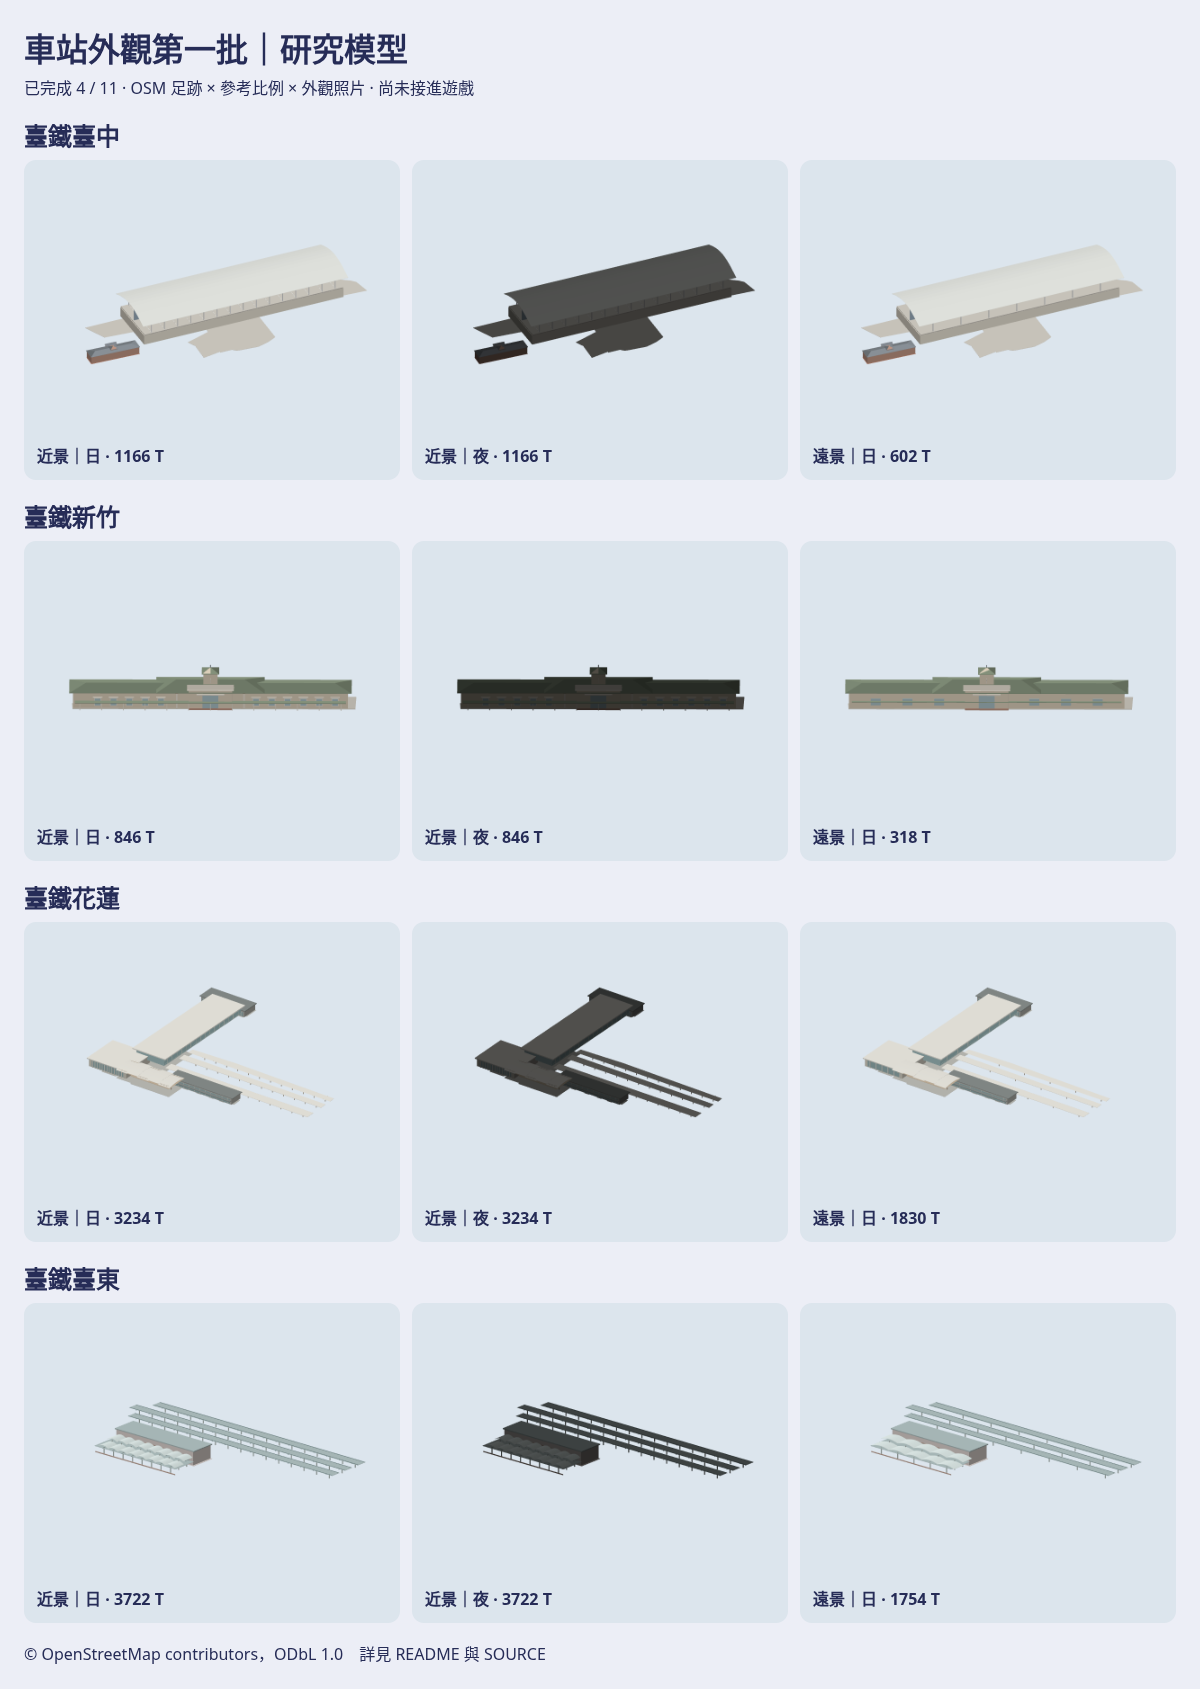
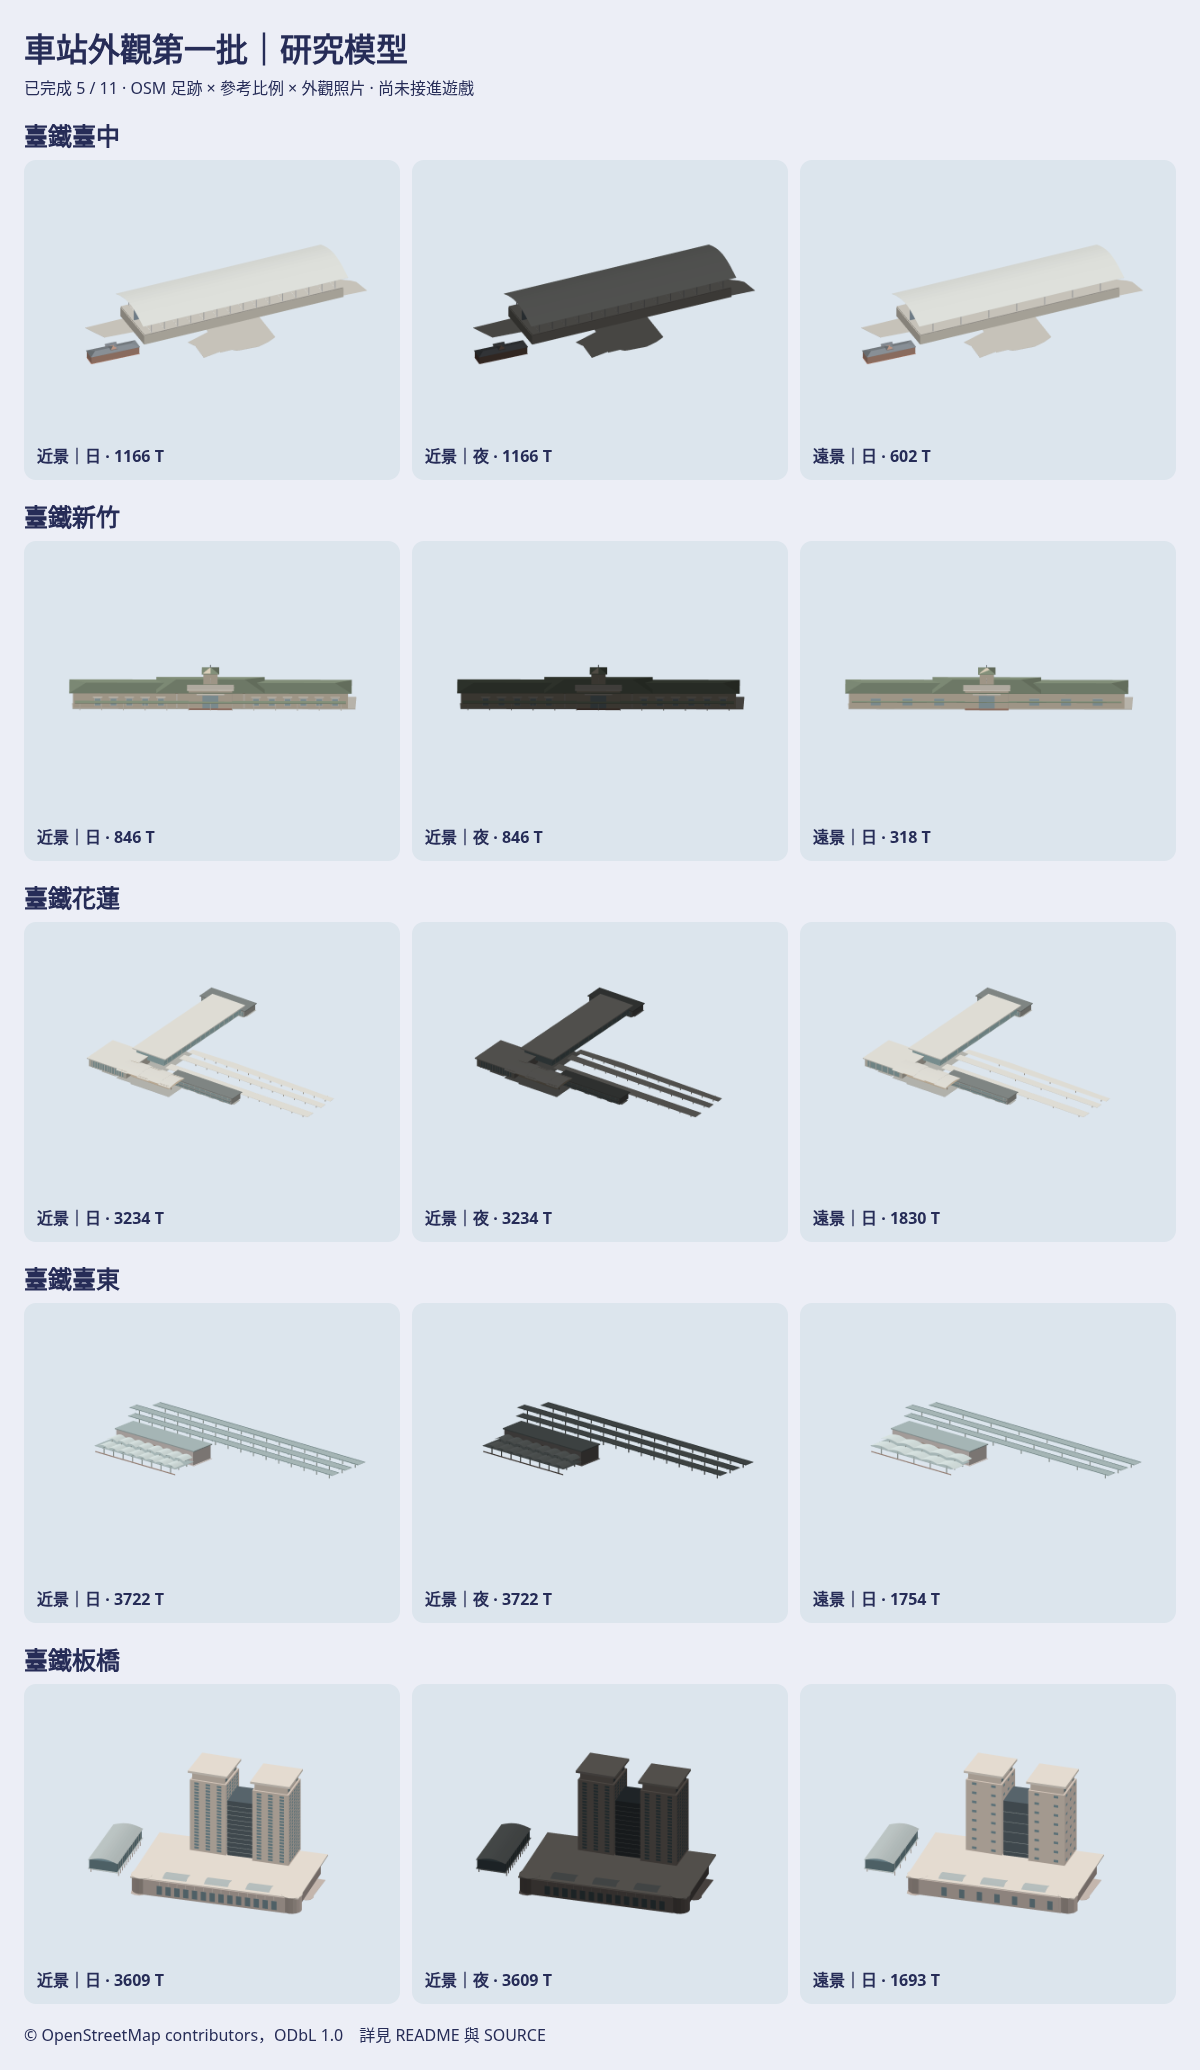
Add Banqiao station exterior study
Model the tagged 116.8 m station height, twin tower footprints, low podium, and circular-line station as isolated near and far recipes with tests and a five-station overview.

Agent: Codex

diff --git a/Sources/GamePresentation/Map3DStationExteriorBatch1.swift b/Sources/GamePresentation/Map3DStationExteriorBatch1.swift
@@ -3,7 +3,7 @@ import Foundation
 /// Isolated exterior study. No station catalog or live-map lookup calls this type.
 public enum Map3DStationExteriorBatch1 {
     public enum LevelOfDetail: Sendable { case near, far }
-    public enum Station: String, CaseIterable, Sendable { case taichungTRA = "tra-taichung", hsinchuTRA = "tra-hsinchu", hualienTRA = "tra-hualien", taitungTRA = "tra-taitung" }
+    public enum Station: String, CaseIterable, Sendable { case taichungTRA = "tra-taichung", hsinchuTRA = "tra-hsinchu", hualienTRA = "tra-hualien", taitungTRA = "tra-taitung", banqiaoTRA = "tra-banqiao" }
 
     public static func model(for station: Station, detail: LevelOfDetail) -> Map3DModelPack.Model {
         var builder = StationKitBuilder()
@@ -12,6 +12,7 @@ public enum Map3DStationExteriorBatch1 {
         case .hsinchuTRA: builder.hsinchuExteriorStudy(detail: detail)
         case .hualienTRA: builder.hualienExteriorStudy(detail: detail)
         case .taitungTRA: builder.taitungExteriorStudy(detail: detail)
+        case .banqiaoTRA: builder.banqiaoExteriorStudy(detail: detail)
         }
         return .flat(named: "station-exterior-study-\(station.rawValue)-\(detail == .near ? "near" : "far")", from: builder.mesh)
     }
@@ -302,6 +303,75 @@ public enum Map3DStationExteriorBatch1 {
         (53.526, 71.849),
         (46.463, 72.660),
         (44.977, 60.051),
+    ]
+
+    // Banqiao complex: OSM ways from osmtoday Taiwan PBF, downloaded 2026-11-06.
+    // Metres east/north from (121.4640451, 25.0144511); © OpenStreetMap contributors, ODbL 1.0.
+    static let banqiaoMainFootprint: [(Float, Float)] = [ // OSM way 232201616
+        (-101.440, -47.035),
+        (-76.974, -16.724),
+        (-56.892, 8.740),
+        (-33.716, 38.940),
+        (-11.659, 67.673),
+        (-0.947, 82.418),
+        (30.189, 58.322),
+        (41.697, 50.049),
+        (62.787, 34.893),
+        (71.442, 22.673),
+        (74.737, 18.014),
+        (76.178, 15.979),
+        (78.889, 12.142),
+        (85.892, 11.787),
+        (90.799, 6.182),
+        (89.469, 1.357),
+        (86.497, -3.191),
+        (80.894, -4.770),
+        (75.110, -3.547),
+        (60.580, -17.547),
+        (27.146, -28.054),
+        (-0.695, -46.969),
+        (-3.688, -50.004),
+        (-24.677, -71.298),
+        (-28.436, -78.315),
+        (-42.714, -104.912),
+        (-50.765, -109.471),
+        (-51.118, -114.019),
+        (-53.395, -118.567),
+        (-58.293, -120.847),
+        (-63.895, -118.567),
+        (-67.220, -114.542),
+        (-78.466, -106.503),
+        (-99.788, -91.258),
+        (-92.734, -81.117),
+        (-84.058, -68.618),
+        (-79.473, -62.025),
+    ]
+    static let banqiaoCircularLineFootprint: [(Float, Float)] = [ // OSM way 818694787
+        (98.558, 67.451),
+        (99.425, 66.806),
+        (82.940, 44.434),
+        (81.841, 42.944),
+        (8.515, 96.973),
+        (26.108, 120.847),
+        (49.355, 103.712),
+        (52.257, 107.648),
+        (78.073, 88.589),
+        (75.191, 84.675),
+        (91.132, 72.933),
+        (94.004, 76.836),
+        (101.440, 71.343),
+    ]
+    static let banqiaoTowerSouthFootprint: [(Float, Float)] = [ // OSM way 1491394339
+        (-74.334, -12.854),
+        (-38.805, -39.007),
+        (-63.724, -72.866),
+        (-99.254, -46.713),
+    ]
+    static let banqiaoTowerNorthFootprint: [(Float, Float)] = [ // OSM way 1491394340
+        (-35.661, 47.369),
+        (0.595, 22.228),
+        (-23.367, -12.309),
+        (-59.613, 12.821),
     ]
 
 }
@@ -652,5 +722,117 @@ private extension StationKitBuilder {
             add(.flat(named: "taitung-platform-supports", from: supports.mesh),
                 at: Map3DPoint(east, 0, north), angle: rotation * .pi / 180)
         }
+    }
+
+    mutating func banqiaoExteriorStudy(detail: Map3DStationExteriorBatch1.LevelOfDetail) {
+        let trim = Map3DColor.rgb(0xEEE5DA)
+        let towerWall = Map3DColor.rgb(0xDDCEC2)
+        let podiumWall = Map3DColor.rgb(0xCDBEB5)
+        let paleRoof = Map3DColor.rgb(0xBEC7C6)
+        let windows = Map3DColor.rgb(0x728C94)
+        let glass = Map3DColor.rgb(0x688189)
+        let darkGlass = Map3DColor.rgb(0x5B6970)
+
+        // The parent OSM building has height=116.8 m and 25 above-ground
+        // levels. Its two commercial building:part ways have no own heights.
+        footprint(Map3DStationExteriorBatch1.banqiaoMainFootprint, color: podiumWall)
+        for outline in [Map3DStationExteriorBatch1.banqiaoTowerSouthFootprint,
+                        Map3DStationExteriorBatch1.banqiaoTowerNorthFootprint] {
+            footprint(outline, color: towerWall, baseY: 20, height: 0.32)
+        }
+        // The circular-line station is tagged layer=1, without height tags.
+        footprint(Map3DStationExteriorBatch1.banqiaoCircularLineFootprint,
+                  color: paleRoof, baseY: 7, height: 0.32)
+
+        // A low, long station podium with two cylindrical end pavilions and
+        // a shallow curved roof rhythm. Podium height and all subdivisions
+        // are photo/reference estimates, separate from OSM's tower height.
+        var podium = StationKitBuilder()
+        podium.box(0, 0.32, 0, 181, 91, 17.6, podiumWall)
+        podium.box(0, 0.32, -48, 161, 20, 18.3, podiumWall)
+        podium.box(0, 18.0, 0, 191, 113, 1.4, trim)
+        for x: Float in [-85, 85] {
+            podium.cylinder(x, 0.32, -47, radius: 11.0, height: 18.5,
+                            color: podiumWall, sides: detail == .near ? 16 : 10)
+            podium.cylinder(x, 18.82, -47, radius: 11.8, height: 0.7,
+                            color: trim, sides: detail == .near ? 16 : 10)
+        }
+        for x in stride(from: Float(-68), through: 68, by: detail == .near ? 10 : 20) {
+            podium.box(x, 2.8, -58.18, 6.0, 0.18, 10.4, windows)
+            if detail == .near { podium.box(x, 13.8, -58.2, 0.55, 0.25, 3.9, trim) }
+        }
+        for x: Float in [-47, 0, 47] {
+            podium.canopy(x, 19.4, -43, length: 27, width: 17,
+                          rise: 1.8, color: paleRoof)
+        }
+        add(.flat(named: "banqiao-podium", from: podium.mesh),
+            at: Map3DPoint(-13.09, 0, -32.37), angle: 52.2644 * .pi / 180)
+
+        // The two towers keep their individual OSM part outlines. The parent
+        // way supplies only their shared 116.8 m top; 20 m start is estimated.
+        let towers: [(Float, Float, Float)] = [(-69.03, -42.86, -36.3563),
+                                               (-29.51, 17.53, -34.7394)]
+        for (east, north, rotation) in towers {
+            var tower = StationKitBuilder()
+            tower.box(0, 20.32, 0, 43.4, 41.4, 85.2, towerWall)
+            tower.box(0, 105.52, 0, 39.4, 37.4, 8.78, towerWall)
+            tower.box(0, 114.3, 0, 47.1, 45.0, 2.5, trim)
+            tower.box(0, 112.7, 0, 40.2, 38.2, 1.6, podiumWall)
+            let floorStep: Int = detail == .near ? 1 : 3
+            let columns: [Float] = detail == .near ? [-15.4, -7.7, 0, 7.7, 15.4]
+                                                   : [-14, 0, 14]
+            for floor in stride(from: 0, through: 21, by: floorStep) {
+                let y = Float(23.0 + Double(floor) * 3.7)
+                let height: Float = detail == .near ? 2.45 : 2.9
+                for x in columns {
+                    for z: Float in [-20.75, 20.75] {
+                        let panel = [Map3DPoint(x - 2.6, y, z),
+                                     Map3DPoint(x + 2.6, y, z),
+                                     Map3DPoint(x + 2.6, y + height, z),
+                                     Map3DPoint(x - 2.6, y + height, z)]
+                        tower.face(panel, inside: Map3DPoint(0, y, 0), color: windows)
+                    }
+                }
+                let sideColumns: [Float] = detail == .near ? [-13, 0, 13] : [-11, 11]
+                for z in sideColumns {
+                    for x: Float in [-21.75, 21.75] {
+                        let panel = [Map3DPoint(x, y, z - 2.6),
+                                     Map3DPoint(x, y, z + 2.6),
+                                     Map3DPoint(x, y + height, z + 2.6),
+                                     Map3DPoint(x, y + height, z - 2.6)]
+                        tower.face(panel, inside: Map3DPoint(0, y, 0), color: windows)
+                    }
+                }
+            }
+            for x: Float in [-14, 14] {
+                tower.box(x, 106.6, -18.9, 5.6, 0.18, 4.9, glass)
+            }
+            add(.flat(named: "banqiao-tower", from: tower.mesh),
+                at: Map3DPoint(east, 0, north), angle: rotation * .pi / 180)
+        }
+
+        // Dark central glazed link between the two station towers.
+        var link = StationKitBuilder()
+        link.box(0, 20.32, 0, 30.0, 37.0, 66.0, darkGlass)
+        for y in stride(from: Float(25), through: 82, by: detail == .near ? 5.5 : 12) {
+            for z: Float in [-18.65, 18.65] {
+                link.box(0, y, z, 30.5, 0.24, 0.34, paleRoof)
+            }
+        }
+        add(.flat(named: "banqiao-glass-link", from: link.mesh),
+            at: Map3DPoint(-49.27, 0, -12.67), angle: 52.2644 * .pi / 180)
+
+        var circular = StationKitBuilder()
+        circular.box(0, 7.32, 0, 87, 32, 11.0, glass)
+        circular.canopy(0, 18.32, 0, length: 91, width: 34,
+                        rise: 3.7, color: paleRoof)
+        for x in stride(from: Float(-39), through: 39, by: detail == .near ? 7 : 19) {
+            for z: Float in [-15.8, 15.8] {
+                circular.box(x, 7.32, z, 0.46, 0.52, 10.7, trim)
+                circular.box(x, 0.32, z, 0.75, 0.75, 7.0, podiumWall)
+            }
+        }
+        add(.flat(named: "banqiao-circular-line", from: circular.mesh),
+            at: Map3DPoint(55.42, 0, 83.86), angle: -36.3842 * .pi / 180)
     }
 }

diff --git a/Tests/GamePresentationTests/Map3DStationExteriorBatch1Tests.swift b/Tests/GamePresentationTests/Map3DStationExteriorBatch1Tests.swift
@@ -2,6 +2,43 @@ import XCTest
 @testable import GamePresentation
 
 final class Map3DStationExteriorBatch1Tests: XCTestCase {
+    func testBanqiaoStudyPreservesFourOSMWaysAndTaggedTowerHeight() {
+        let near = Map3DStationExteriorBatch1.model(for: .banqiaoTRA, detail: .near)
+        let far = Map3DStationExteriorBatch1.model(for: .banqiaoTRA, detail: .far)
+        XCTAssertGreaterThan(near.triangleCount, far.triangleCount)
+        XCTAssertLessThanOrEqual(near.triangleCount, 6_000)
+        XCTAssertLessThanOrEqual(far.triangleCount, 2_500)
+        XCTAssertNil(Map3DStationKit.model(id: near.name))
+        XCTAssertNil(Map3DStationKit.model(id: far.name))
+        XCTAssertEqual(near.maximum.z, 116.8, accuracy: 0.01)
+        let outlines: [([(Float, Float)], Float)] = [
+            (Map3DStationExteriorBatch1.banqiaoMainFootprint, 0.32),
+            (Map3DStationExteriorBatch1.banqiaoTowerSouthFootprint, 20.32),
+            (Map3DStationExteriorBatch1.banqiaoTowerNorthFootprint, 20.32),
+            (Map3DStationExteriorBatch1.banqiaoCircularLineFootprint, 7.32)
+        ]
+        for (outline, top) in outlines {
+            for (east, north) in outline {
+                XCTAssertTrue(near.vertices.contains {
+                    abs($0.x - east) < 0.002 && abs($0.y + north) < 0.002
+                        && abs($0.z - top) < 0.002
+                })
+            }
+        }
+        let colours = Set(near.vertices.map(\.color))
+        let ordered = [UInt32(0xEEE5DA), 0xDDCEC2, 0xBEC7C6, 0xCDBEB5,
+                       0x728C94, 0x688189, 0x5B6970].map(Map3DColor.rgb)
+        func luminance(_ colour: UInt32) -> Float {
+            Float(colour & 255) * 0.2126 + Float((colour >> 8) & 255) * 0.7152
+                + Float((colour >> 16) & 255) * 0.0722
+        }
+        for (lighter, darker) in zip(ordered, ordered.dropFirst()) {
+            XCTAssertTrue(colours.contains(lighter))
+            XCTAssertGreaterThan(luminance(lighter), luminance(darker))
+        }
+        XCTAssertTrue(colours.contains(ordered.last!))
+    }
+
     func testTaitungStudyPreservesFiveOSMWaysAndTwoDetailBudgets() {
         let near = Map3DStationExteriorBatch1.model(for: .taitungTRA, detail: .near)
         let far = Map3DStationExteriorBatch1.model(for: .taitungTRA, detail: .far)

diff --git a/docs/art/station-exteriors-batch1/README.md b/docs/art/station-exteriors-batch1/README.md
@@ -1,4 +1,4 @@
-# 車站外觀第一批 studies：第 4 次交付
+# 車站外觀第一批 studies：第 5 次交付
 
 這是獨立研究配方，沒有接到 `Map3DStationKit` 的站點選型、地圖或存檔。公開庫只有配方、測試與一張總覽；逐方向原生模型、GLB、日夜圖與離線檢視頁在私有素材庫的同名資料夾。
 
@@ -50,11 +50,23 @@
 
 外觀只看 Wikimedia Commons [2018 年站房正面](https://commons.wikimedia.org/wiki/File:TRA_Taitung_Station_20180502.jpg)、[2013 年入口夜景](https://commons.wikimedia.org/wiki/File:TRA_Taitung_Station_main_entrance_20131203_night.jpg)、[2008 年月台棚下方](https://commons.wikimedia.org/wiki/File:Platform_2,_TRA_Taitung_Station_20080606.jpg)。照片沒有作貼圖。以現有 station kit 的盒體、封閉曲棚和淡色調組出近景／遠景；保留淺色拱棚比牆亮、窗與棚底較暗的順序。近景 **3,722 三角**、遠景 **1,754 三角**；拱棚桁架與細部仍需作者看外觀後確認。
 
-## 尚缺的七站
+## 已完成：臺鐵板橋
+
+| 部件 | OSM 足跡最小旋轉矩形 | 高度與外觀判斷 |
+| --- | --- | --- |
+| 板橋車站大樓母體 | [way 232201616](https://www.openstreetmap.org/way/232201616)，**199.488 × 121.932 m**，37 個不重複頂點；OSM 標 `height=116.8` m、`building:levels=25`、地下 5 層 | **116.8 m 是 OSM 母體標籤**，作雙塔頂標高。照片顯示低層長站體、兩端圓筒與中央深色玻璃；約 20 m 低層高度、柱窗和三段淺棚曲度都是推估，地下層不建模。 |
+| 南側塔樓分件 | [way 1491394339](https://www.openstreetmap.org/way/1491394339)，**44.170 × 42.088 m**，4 個頂點；`building:part=commercial` | 分件沒有自己的高度標籤；以母體 116.8 m 為頂、約 20 m 為起點。淺粉灰窗格、頂部外挑檐板依照片推估。 |
+| 北側塔樓分件 | [way 1491394340](https://www.openstreetmap.org/way/1491394340)，**44.169 × 42.086 m**，4 個頂點；`building:part=commercial` | 同上。雙塔及深色中段按照片和 OSM 分件相對位置組合，窗距不當作實測樓層分隔。 |
+| 環狀線板橋站 | [way 818694787](https://www.openstreetmap.org/way/818694787)，**91.185 × 34.580 m**，13 個頂點；`layer=1` | OSM 沒有高度或屋頂形狀。底部約 7 m、頂部約 22 m、低弧棚與柱距依參考展示比例和外觀照片推估。 |
+
+四個 way 的全部非閉合頂點取自 2026-11-06 下載的 osmtoday `asia/taiwan.pbf`，以 pyosmium 擷取；局部公尺座標原點為 121.4640451°E、25.0144511°N。同 way 尺寸和相對位置與參考庫 `Railway/taiwan-rail-reference-clean/source/rail-3d/assets/stations/banqiao-v1/metadata.json` 核對；`blender-buildings-v1/banqiao-v1/model.json` 僅看雙塔、低層與高架站比例，不用網格。OSM 輪廓 © OpenStreetMap contributors，ODbL 1.0。
+
+外觀照片只看 Wikimedia Commons [2014 年板橋車站大樓](https://commons.wikimedia.org/wiki/File:Banqiao_Station_Building_20140610.jpg)、[從新北市政府望向站體](https://commons.wikimedia.org/wiki/File:新北市_板橋車站大樓_Banciao_Station_From_New_Taipei_City_Hall_-_panoramio.jpg)、[塔樓入口](https://commons.wikimedia.org/wiki/File:Banqiao_Station_Building_N1A_20230909.jpg) 及[環狀線列車望向高架站](https://commons.wikimedia.org/wiki/File:Train_on_MRT_Circular_Line_Meeting_near_Banqiao_Station_01.jpg)。照片不作貼圖。以 station kit 盒體、圓柱、曲棚與淡色玻璃抽象重建；近景 **3,609 三角**、遠景 **1,693 三角**。窗格、低層平面、環狀線棚面與兩端圓筒仍待作者核對外觀。
+
+## 尚缺的六站
 
 | 站 | 來源與目前量到的部件足跡（m） | 還缺的核對 |
 | --- | --- | --- |
-| 臺鐵板橋 | 參考庫 `stations/banqiao-v1/metadata.json` 的 OSM 輪廓：板橋車站 199 × 122（232201616）；板橋站塔樓 44 × 42（1491394339）；板橋站塔樓 44 × 42（1491394340）；環狀線板橋 91 × 35（818694787） | 雙塔與站體真實高度及照片細節。 |
 | 臺鐵南港 | 參考庫 `stations/nangang-v1/metadata.json` 的 OSM 輪廓：南港車站 213 × 134（233331393）；南港 A 棟 61 × 35（908843920）；南港 B 棟 84 × 39（411044008）；南港 C 棟 112 × 42（410390808）；南港東側站房 83 × 42（556511660） | A／B／C 棟真實高度與外觀。 |
 | 高鐵桃園 | 參考庫 `stations/taoyuan-hsr-v1/metadata.json` 的 OSM 輪廓：高鐵桃園 122 × 74（23547222）；機捷 A18 154 × 52（560119012） | 挑簷、採光頂與真實高度。 |
 | 高鐵新竹 | 參考庫 `stations/hsinchu-hsr-v1/metadata.json` 的 OSM 輪廓：高鐵新竹 344 × 101（321663134）；六家 48 × 34（321663135） | 長曲頂與真實高度。 |
